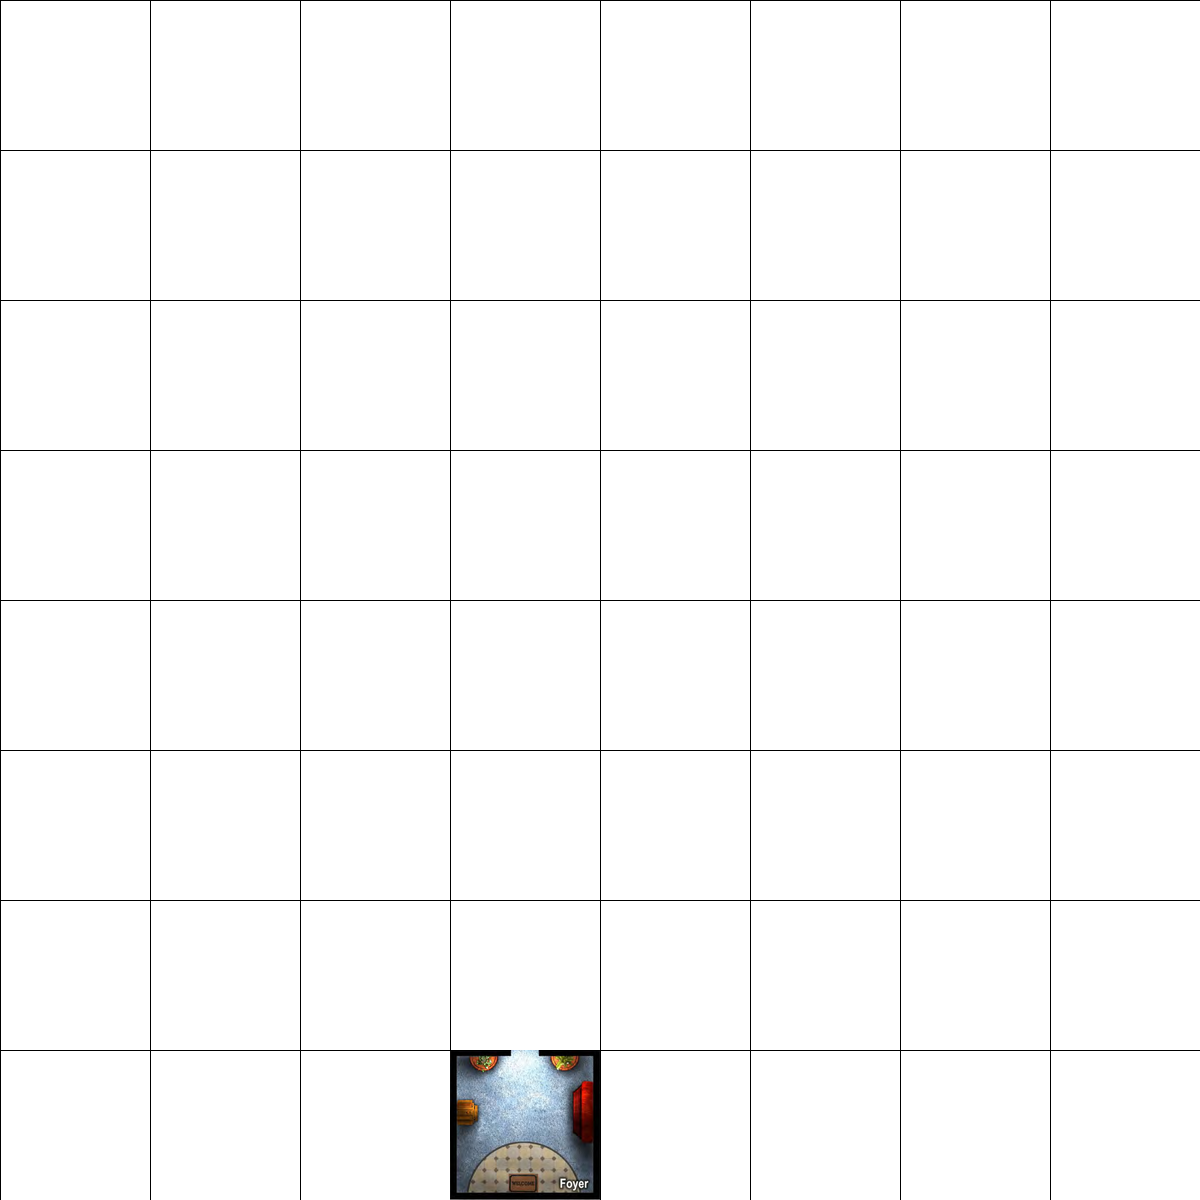
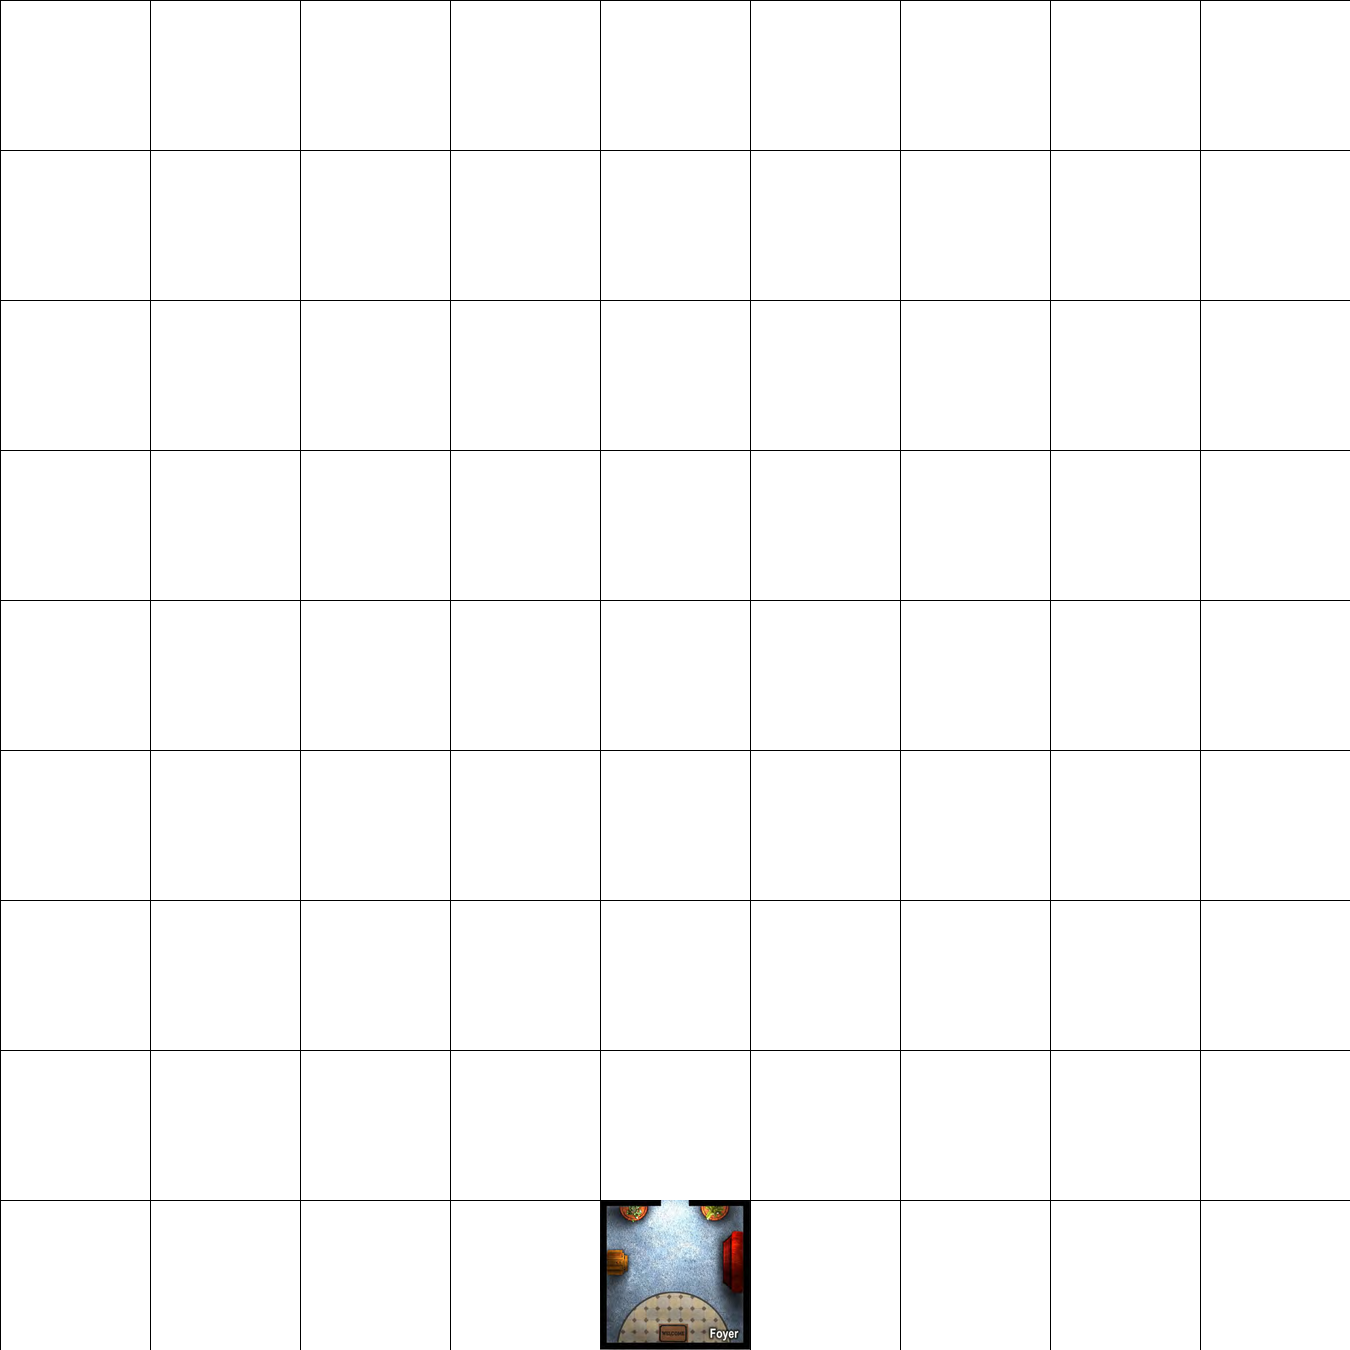
Update grid size and add remove_tile functionality

diff --git a/src/Model/Game.py b/src/Model/Game.py
@@ -14,18 +14,24 @@ class Game:
         self.time = 0
 
     def create_game(self):
-        print("Starting a new game of Zombies in your Pocket...")
+        print(
+            "The dead walk the earth. You must search the house for the Evil Temple, and find the zombie totem."
+        )
+        print(
+            "Then take the totem outside, and bury it in the Graveyard, all before the clock strikes midnight."
+        )
         self.time = 9
         self.game_data.shuffle_devcard_deck()
         self.game_data.remove_two_devcards()
         self.game_data.map[self.player.y][
             self.player.x
         ] = self.game_data.get_tile_by_name("Foyer")
-        self.state = State.STARTED
+        self.game_data.remove_tile_by_name("Foyer")
         self.image_handler.create_map_image(self.game_data.map)
+        self.state = State.STARTED
 
     def get_stats(self):
-        print(f"The current time is: {self.time}")
+        print(f"The current time is: {self.time}pm")
         print(f"Your current health is: {self.player.health}")
         print(f"Your current attack is: {self.player.attack}")
         print(f"You currently have the following items: {self.player.items}")

diff --git a/src/Model/GameData.py b/src/Model/GameData.py
@@ -8,7 +8,7 @@ from Model.Tile import Tile
 
 class GameData:
     def __init__(self):
-        self.map = [[0] * 8 for i in range(8)]
+        self.map = [[0] * 9 for i in range(9)]
         self.indoor_tiles = []
         self.outdoor_tiles = []
         self.dev_cards = []
@@ -89,9 +89,22 @@ class GameData:
             if tile.name == name:
                 return tile
 
+    def remove_tile_by_name(self, name):
+        for index, tile in enumerate(self.indoor_tiles):
+            if tile.name == name:
+                self.indoor_tiles.pop(index)
+
+        for index, tile in enumerate(self.outdoor_tiles):
+            if tile.name == name:
+                self.indoor_tiles.pop(index)
+
     # Junho
     def shuffle_devcard_deck(self):
         random.shuffle(self.dev_cards)
+
+    def shuffle_tile_cards(self):
+        random.shuffle(self.indoor_tiles)
+        random.shuffle(self.outdoor_tiles)
 
     def remove_two_devcards(self):
         self.dev_cards.pop()

diff --git a/src/Model/ImageHandler.py b/src/Model/ImageHandler.py
@@ -7,7 +7,7 @@ class ImageHandler:
         self.size = (150, 150)
         self.root_dir = Path(__file__).parent.parent / "Data" / "Images"
 
-    def create_map_image(self, map, grid=(8, 8)):
+    def create_map_image(self, map, grid=(9, 9)):
         width, height = self.size
 
         image_size = (width * grid[1], height * grid[0])

diff --git a/src/Model/Player.py b/src/Model/Player.py
@@ -3,8 +3,8 @@ class Player:
         self.game_data = game_data
         self.health = 6
         self.attack = 1
-        self.x = 3
-        self.y = 7
+        self.x = 4
+        self.y = 8
         self.items = []
         self.hold_totem = False
         self.can_cower = False
